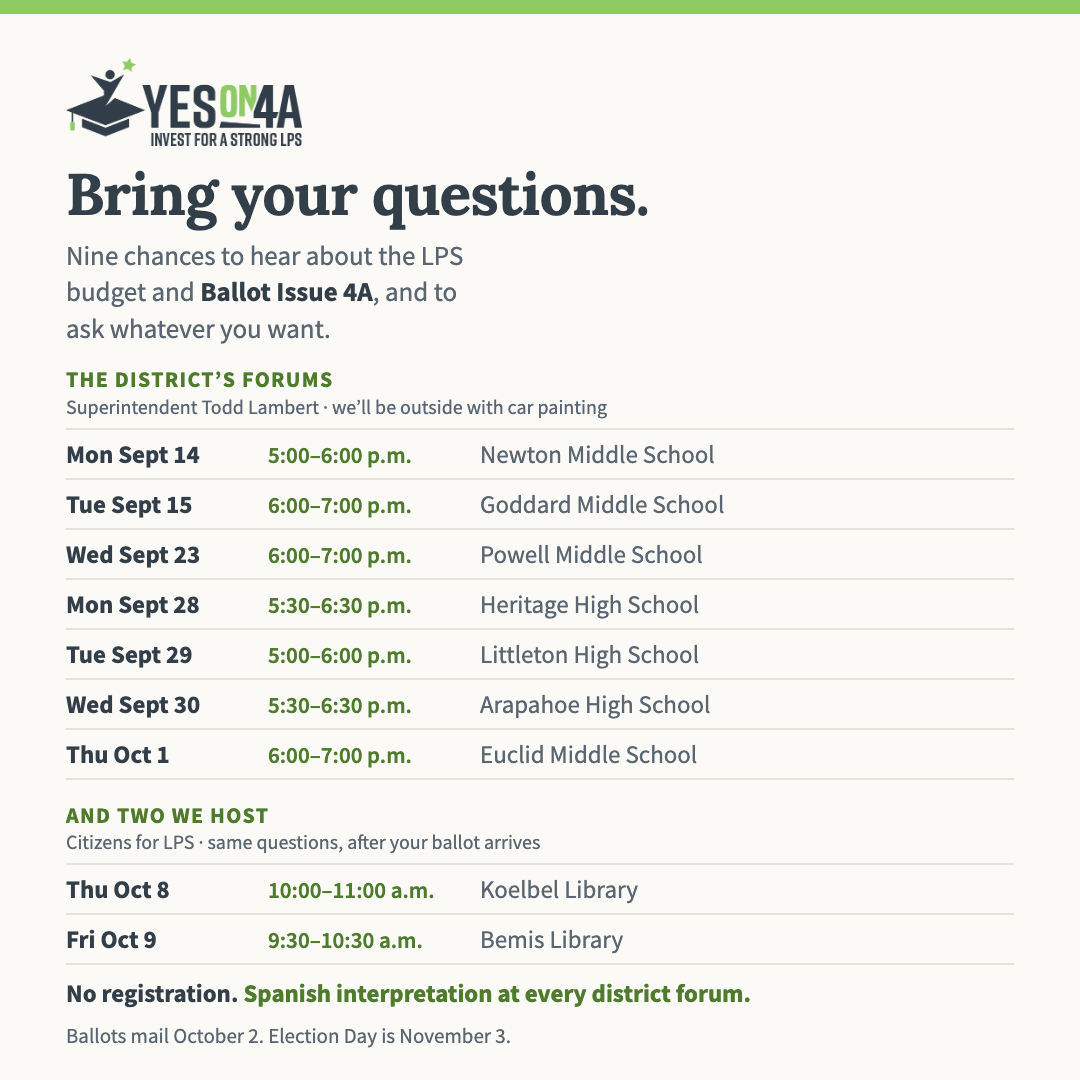
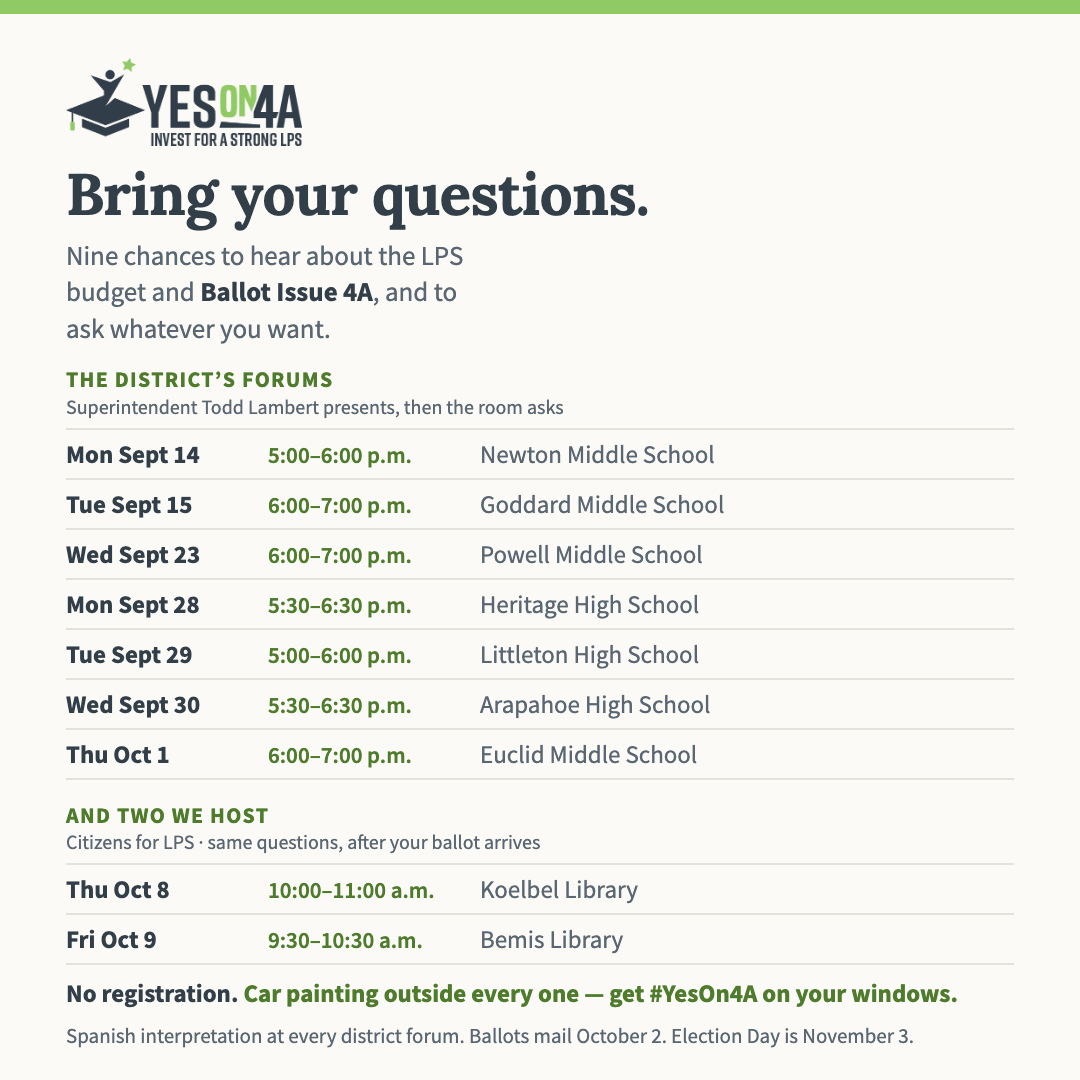
Car painting at all nine, and a portrait card that stopped clipping
"Yes. Car painting at all events (get your car painted with #YesOn4A
and info about the effort)."

Car painting was scoped to the district forums; it applies to all nine.
It moves out of `forums` into a top-level CAMPAIGN.carPainting that
both lists render, and now carries what actually goes on the car:
#YesOn4A and where to learn more. At the district forums it keeps
doing double duty as the line that separates the tracks — "the meeting
inside is the district's; the car painting outside is ours."

Two things this change exposed:

The card's overflow check was lying. `body` is overflow:hidden, so
scrollHeight never exceeds the canvas and the probe reported "ok" while
the last footer line was cut off. The longer car-painting note pushed
portrait's footer 44px past the bottom edge and the measurement said
fine. Now measured as the bottom of `.foot .fine` against canvas
height; portrait dropped to --row:9px and every format has spare room.
Warning written into the master so the next copy edit re-measures.

The smoke test passed while app.js referenced a CAMPAIGN key that did
not exist — a half-applied edit left the data plane untouched and the
renderer pointing at nothing. A missing key renders as a blank line,
not an exception, so the tests now assert the campaignMeetings shape
and the three carPainting strings app.js reads. 131 -> 136 checks.

Claude-Session: https://claude.ai/code/session_01Q36cWUtzP7EjmESsCWSHd3

Changed region(s): [[0.0611, 0.9167, 0.8861, 0.9778], [0.3056, 0.3667, 0.5806, 0.3972]]

diff --git a/branding/social/forums-card.html b/branding/social/forums-card.html
@@ -16,6 +16,12 @@
 
   Tokens mirror css/styles.css :root. Content mirrors
   docs/campaign/CAMPAIGN-BRIEF.md — update the brief first.
+
+  WHEN YOU CHANGE COPY, RE-MEASURE. `body` is overflow:hidden, so
+  scrollHeight never exceeds the canvas and an overflow check on it
+  reports "ok" while the last line is being cut off. Measure the
+  bottom of `.foot .fine` against the canvas height instead — a
+  footer note that grows from one line to two is what clips it.
 -->
 <link rel="preconnect" href="https://fonts.googleapis.com">
 <link rel="preconnect" href="https://fonts.gstatic.com" crossorigin>
@@ -64,7 +70,7 @@ body.portrait{width:1080px;height:1350px;
   --bar:16px; --padX:72px; --padY:52px; --logo:104px;
   --h1:76px; --sub:33px; --list:29px; --listSm:27px; --note:29px; --fine:24px;
   --group:25px; --groupSub:23px; --groupGap:12px; --groupTop:30px;
-  --gap1:26px; --gap2:16px; --gap3:30px; --row:13px;
+  --gap1:26px; --gap2:16px; --gap3:30px; --row:9px;
   --wWhen:200px; --wTime:210px; --colGap:18px}
 
 /* ---- 1080x1080 — square feed / profile grid ---- */
@@ -120,7 +126,7 @@ body.wide .sub{max-width:24ch}
   <p class="sub">Nine chances to hear about the LPS budget and <b>Ballot Issue&nbsp;4A</b>, and to ask whatever you want.</p>
 
   <div class="sched">
-    <p class="group">The district&rsquo;s forums<span>Superintendent Todd Lambert &middot; we&rsquo;ll be outside with car painting</span></p>
+    <p class="group">The district&rsquo;s forums<span>Superintendent Todd Lambert presents, then the room asks</span></p>
     <ul>
       <li><span class="when">Mon Sept 14</span><span class="time">5:00–6:00 p.m.</span><span class="place">Newton Middle School</span></li>
       <li><span class="when">Tue Sept 15</span><span class="time">6:00–7:00 p.m.</span><span class="place">Goddard Middle School</span></li>
@@ -139,8 +145,8 @@ body.wide .sub{max-width:24ch}
   </div>
 
   <div class="foot">
-    <p class="note">No registration. <span>Spanish interpretation at every district forum.</span></p>
-    <p class="fine">Ballots mail October 2. Election Day is November 3.</p>
+    <p class="note">No registration. <span>Car painting outside every one &mdash; get #YesOn4A on your windows.</span></p>
+    <p class="fine">Spanish interpretation at every district forum. Ballots mail October 2. Election Day is November 3.</p>
   </div>
 </div>
 </body></html>

diff --git a/js/data.js b/js/data.js
@@ -310,11 +310,6 @@ const CAMPAIGN = {
   forums: {
     sourceId: 'lpsDollarsAndSense',
     host: 'Superintendent Todd Lambert',
-    // The committee is outside the room at each of these with car
-    // painting (campaign, 2026-09-09). Inside is the district
-    // informing voters; outside is advocacy. Copy says both, so a
-    // reader always knows which side of the door they're on.
-    campaignOutside: 'Volunteers will be outside each forum painting car windows. The meeting inside is the district\u2019s.',
     sessions: [
       { date: '2026-09-14', time: '5:00–6:00 p.m.', place: 'Newton Middle School' },
       { date: '2026-09-15', time: '6:00–7:00 p.m.', place: 'Goddard Middle School' },
@@ -324,6 +319,18 @@ const CAMPAIGN = {
       { date: '2026-09-30', time: '5:30–6:30 p.m.', place: 'Arapahoe High School' },
       { date: '2026-10-01', time: '6:00–7:00 p.m.', place: 'Euclid Middle School' },
     ],
+  },
+
+  /*
+   * Car painting happens outside ALL nine meetings — the district's
+   * seven and our two (campaign, 2026-09-09). At the district forums
+   * it is also the line that keeps the two tracks legible: the
+   * meeting inside is theirs, the table outside is ours.
+   */
+  carPainting: {
+    short: 'Car painting outside these too.',
+    long: 'Volunteers will be outside every meeting painting car windows \u2014 #YesOn4A and where to learn more about the effort.',
+    atDistrictForums: 'The meeting inside is the district\u2019s; the car painting outside is ours.',
   },
 
   /*

diff --git a/js/app.js b/js/app.js
@@ -171,7 +171,7 @@
           <button class="link-btn campaign-meeting-invite" data-cmeeting="${s.i}">Invite someone &rarr;</button>
         </li>`).join('')}
       </ul>
-      <p class="fine">Hosted by ${escHtml(cm.host)}. ${escHtml(cm.sourceNote)}
+      <p class="fine">Hosted by ${escHtml(cm.host)}. ${escHtml(CAMPAIGN.carPainting.short)} ${escHtml(cm.sourceNote)}
         <a href="${CAMPAIGN.officialSite}" target="_blank" rel="noopener">citizensforlps.org</a> for updates.</p>`;
   }
 
@@ -196,7 +196,7 @@
         </li>`).join('')}
       </ul>
       <p class="fine">No sign-up needed. Spanish interpretation at every session. ${src}</p>
-      <p class="fine">${escHtml(CAMPAIGN.forums.campaignOutside)} Come early if you want your car windows painted.</p>`;
+      <p class="fine">${escHtml(CAMPAIGN.carPainting.long)} ${escHtml(CAMPAIGN.carPainting.atDistrictForums)}</p>`;
   }
 
   /*

diff --git a/index.html b/index.html
@@ -111,7 +111,7 @@
           and then the room asks questions. These are the
           district's meetings, so there is no campaigning in them. That
           is also why a neighbor who hasn't decided will come if you
-          ask. So ask.
+          ask. So ask. We'll be outside with the car paint.
         </p>
         <div id="forum-list"></div>
 
